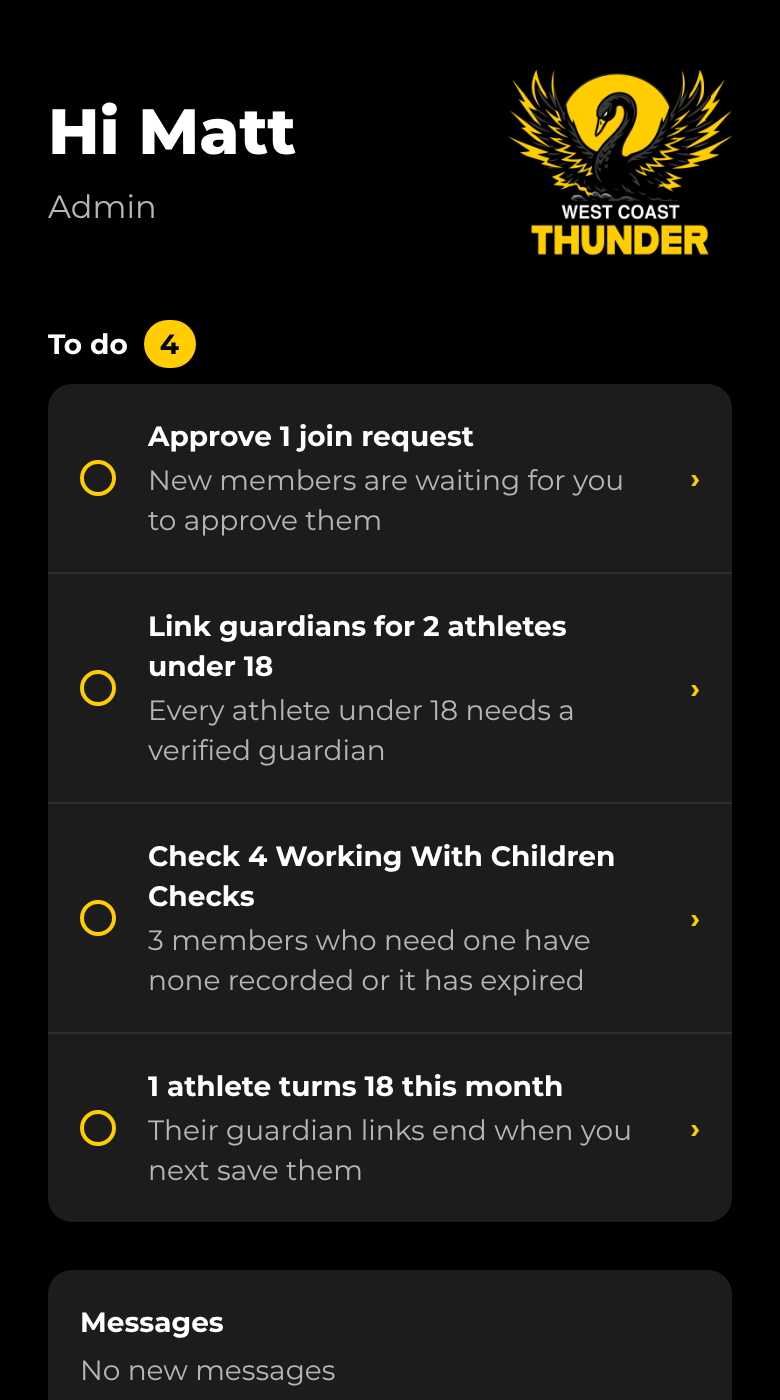
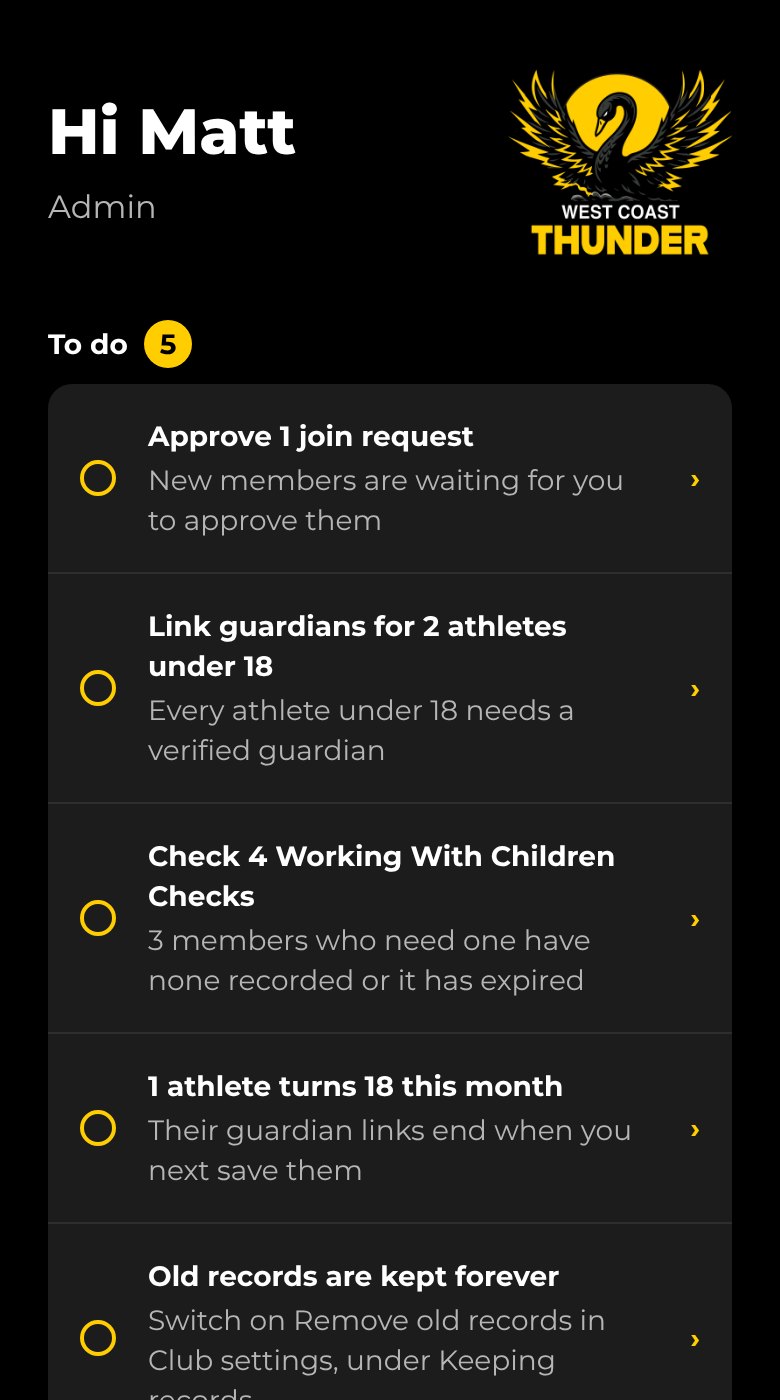
Remind admins while old records are kept forever; highlight legal advice
While Club settings' "Remove old records" is off, every admin's to-do list
now shows "Old records are kept forever", opening Club settings. The user
guide's committee section opens with a callout to get legal advice on
whether keeping injury records makes the club a health service provider
under the Privacy Act, and the auditors' summary says the same.

Claude-Session: https://claude.ai/code/session_01PSj6UtGHkyxoGwMZG7YNkM

Changed region(s): [[0.0615, 0.86, 0.9538, 1.0], [0.2154, 0.215, 0.2462, 0.2764]]

diff --git a/src/lib/use-pending-requests.ts b/src/lib/use-pending-requests.ts
@@ -52,6 +52,8 @@ export type SafetyTodos = {
   notices_to_report: number;
   /** 1 when the club has no WWC Registration Officer. */
   wwc_officer_missing: number;
+  /** Club settings' "Remove old records" is off, so nothing past its keep period is removed. */
+  records_removal_off?: boolean;
 };
 
 /** Child-safety follow-ups for admins, refreshed when the screen is shown. */
@@ -61,8 +63,13 @@ export function useSafetyTodos() {
 
   const load = useCallback(async () => {
     if (!isAdmin) return;
-    const { data } = await supabase.rpc('admin_safety_todos').maybeSingle();
-    setSafety((data as SafetyTodos | null) ?? null);
+    const [{ data }, { data: retention }] = await Promise.all([
+      supabase.rpc('admin_safety_todos').maybeSingle(),
+      supabase.rpc('record_retention').maybeSingle(),
+    ]);
+    const todos = (data as SafetyTodos | null) ?? null;
+    const removalOn = (retention as { enabled?: unknown } | null)?.enabled;
+    setSafety(todos && { ...todos, records_removal_off: retention != null && removalOn === false });
   }, [isAdmin]);
 
   useFocusEffect(

diff --git a/src/lib/todos.ts b/src/lib/todos.ts
@@ -379,6 +379,14 @@ export function buildTodos({
         href: '/admin',
       });
     }
+    if (safety.records_removal_off) {
+      todos.push({
+        key: 'records-removal-off',
+        title: 'Old records are kept forever',
+        detail: 'Switch on Remove old records in Club settings, under Keeping records',
+        href: '/admin/club',
+      });
+    }
   }
 
   if (affiliation) {

diff --git a/docs/user-guide.md b/docs/user-guide.md
@@ -1180,7 +1180,9 @@ screen. Admins' to-do lists include join requests waiting for approval and clear
 sign-off, plus child-safety follow-ups: athletes under 18 with no guardian linked, Working With
 Children Checks that are missing, expired or expire within 60 days, volunteer exemptions that end
 within 60 days, and athletes turning 18 within 30 days. Tapping a child-safety to-do opens **Members**, where the people behind it are listed
-first under **Needs checking**. When Affiliation records are on, the list also has affiliation
+first under **Needs checking**. While **Remove old records** is off, the list also shows **Old
+records are kept forever**, which opens Club settings so you can switch it on (see [Keeping
+records](#keeping-records)). When Affiliation records are on, the list also has affiliation
 items still to do, members to check in PlayHQ and a reminder when the yearly affiliation return
 is due (see [Affiliation](#affiliation)). On an installed app, admins also get a push notification for each
 new join request.
@@ -1191,7 +1193,7 @@ or an exemption with a reason that another admin records, like committee members
 
 <img src="user-guide/admin-home.png" width="210" alt="Admin home screen">
 <img src="user-guide/administration.png" width="210" alt="Administration menu">
-<img src="user-guide/admin-safety-todos.png" width="210" alt="Admin to-dos for guardians, Working With Children Checks and athletes turning 18">
+<img src="user-guide/admin-safety-todos.png" width="210" alt="Admin to-dos for guardians, Working With Children Checks, athletes turning 18 and old records kept forever">
 
 ### Inviting members
 
@@ -1816,7 +1818,8 @@ The privacy law says a club keeps personal information only while it needs it. *
 at the bottom of Club settings, sets how long the club keeps each kind of record, for everyone,
 adults and children alike.
 
-- **Remove old records** starts off, and nothing is removed while it's off. When it's on, each night
+- **Remove old records** starts off, and nothing is removed while it's off. Until you switch it on,
+  every admin's to-do list shows **Old records are kept forever**. When it's on, each night
   the app permanently removes records older than their keep period. They can't be brought back, so
   save a report first if the club needs a copy.
 - **Daily check-ins**, counted from the day of the check-in: 2 years unless you choose 1, 3, 5 or
@@ -2133,6 +2136,14 @@ Working With Children Check, and another admin must do it.
 
 ### For committees, boards and admins
 
+> **Get legal advice on the Privacy Act.** A club with a turnover of $3 million or less is usually
+> exempt, but keeping injury records, physio updates and medical letters may make the club a
+> "health service provider", and then the Act applies to that information whatever the club's
+> size. Ask a lawyer whether it applies to your club. Until you have an answer, treat injury
+> records as covered by the Act. The app is built to the Act's standards either way, and the
+> reasons are in the [privacy and social media
+> assessment](security/privacy-and-social-media-assessment-2026-10-13.md).
+
 - **Stand-downs.** An admin can stand someone down straight away, for example on an interim
   negative notice from the Working with Children Screening Unit. Their coach, manager, physio,
   committee and admin roles stop and they leave the squads and teams they lead. Every stand-down is
@@ -2180,7 +2191,8 @@ Working With Children Check, and another admin must do it.
 - **Your to-do list does the chasing**: new concerns, missing or expiring checks, volunteer
   exemptions ending, declarations not yet accepted, cards to validate or register with the
   club, notices to report to the governing body, no WWC Registration Officer, athletes with no date
-  of birth, athletes under 18 without a guardian and athletes turning 18.
+  of birth, athletes under 18 without a guardian, athletes turning 18, and old records kept
+  forever while **Remove old records** is off.
 - **Reports for your records.** The Working With Children Checks report follows the Screening
   Unit's record layout: every check with the name on the card, date of birth, card number, expiry
   and validation, plus every exemption, notice and stand-down. The under 18s report lists every child, their guardians and how often their records were viewed in the last 12 months. The concerns register
@@ -2212,7 +2224,8 @@ Working With Children Check, and another admin must do it.
   messages, feeds, profile pictures, likes or following, and posts never reach beyond a member's
   own squads and teams. That keeps it outside the under-16 social media ban, and the rule is
   written into how the app is built. Whether the Privacy Act binds a club depends on its turnover
-  and whether keeping injury records makes it a health service provider; the app is built to the
+  and whether keeping injury records makes it a health service provider. **Each club should get
+  legal advice on this** and treat injury records as covered until it has; the app is built to the
   Act's standards either way. Both assessments, with their reasons, are kept with the app's code
   and reviewed each year.
 - **Affiliation evidence in one place.** A club or association that turns on Affiliation records
